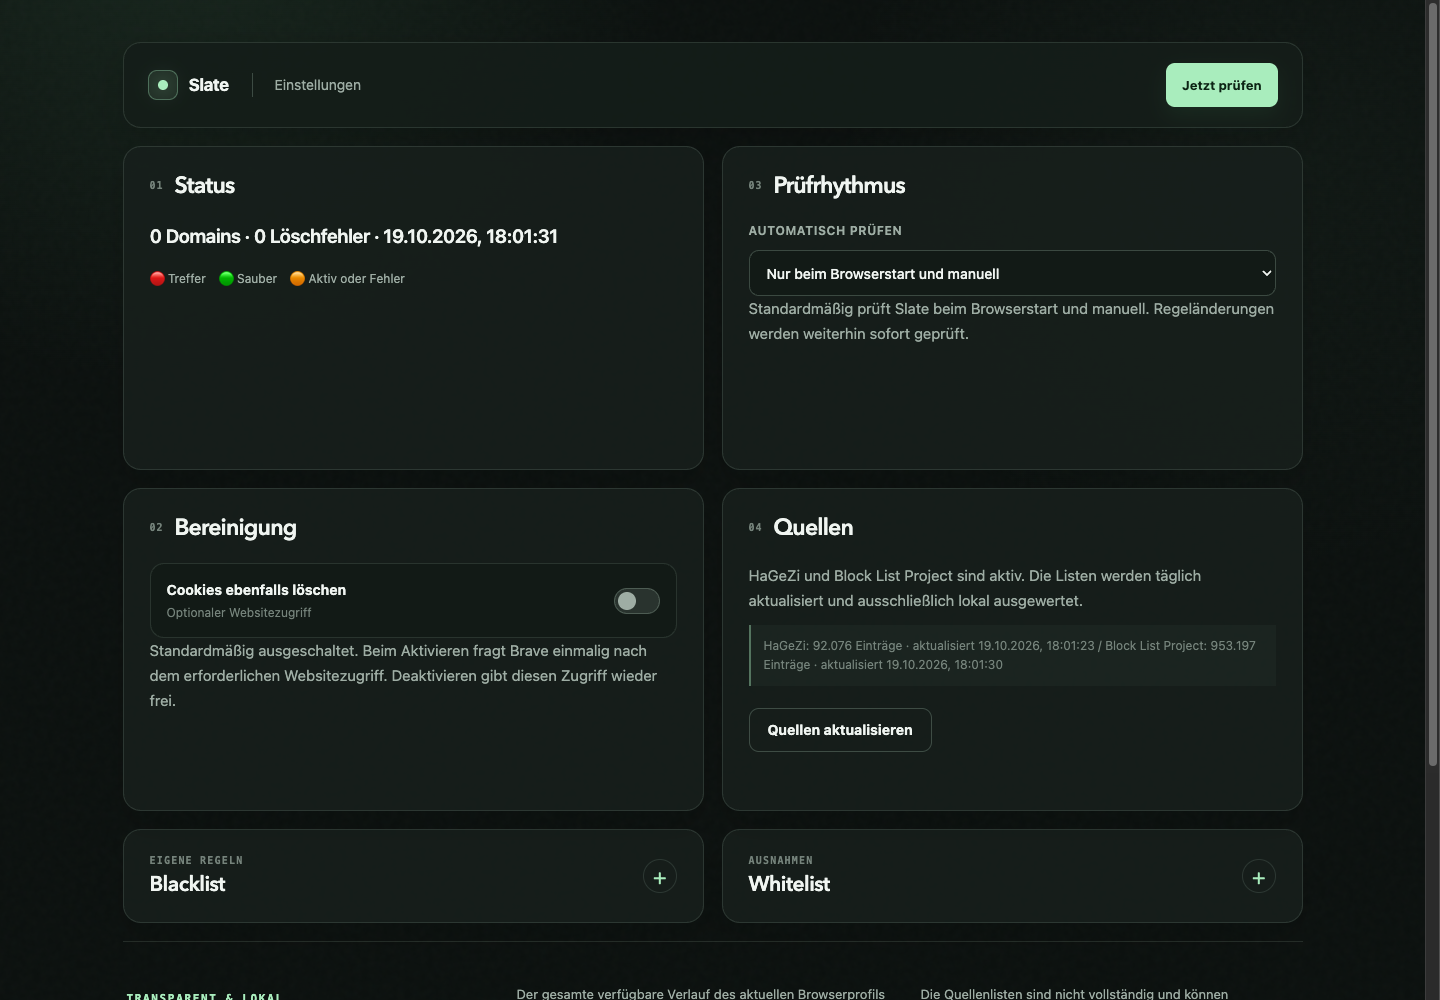
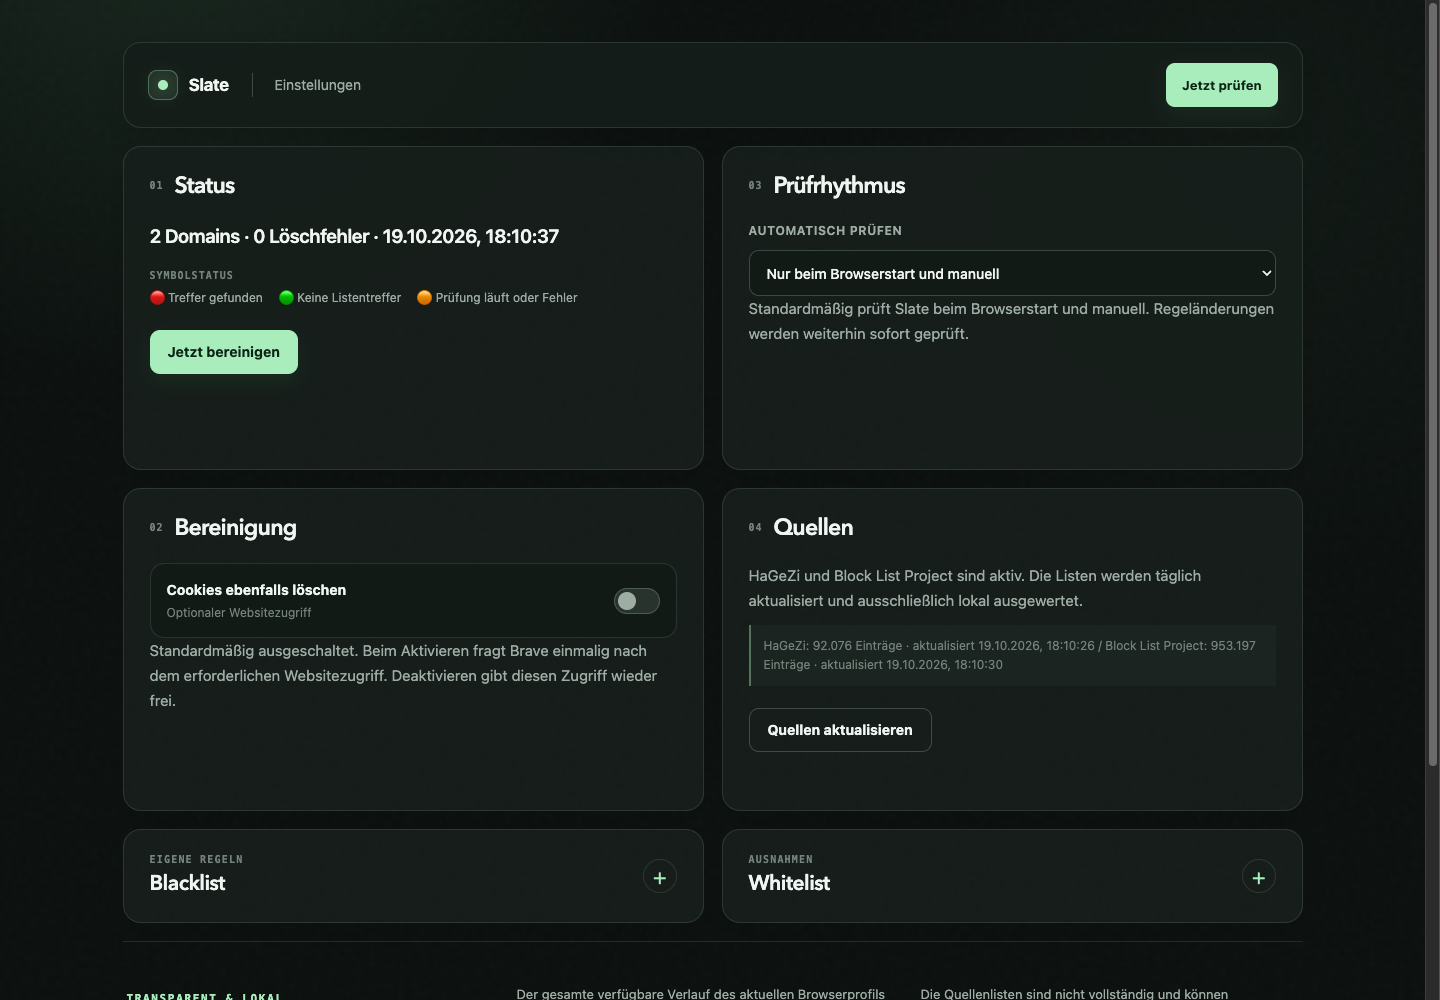
Add conditional cleanup action

Changed region(s): [[0.0938, 0.217, 0.4062, 0.372], [0.0938, 0.868, 0.1562, 0.899], [0.5312, 0.868, 0.5625, 0.899]]

diff --git a/options.js b/options.js
@@ -4,6 +4,7 @@ const $=id=>document.getElementById(id);
 async function status(){
  const {status:s,sourceMeta={}}=await chrome.storage.local.get(['status','sourceMeta']);
  $('status').textContent=s?.error||(s?`${s.domains??0} Domains · ${s.failed||0} Löschfehler · ${new Date(s.checkedAt).toLocaleString('de-DE')}`:'Noch keine Prüfung');
+ $('clean').hidden=!!s?.error||!(s?.domains>0);
  $('sourcesStatus').textContent=sources.map(src=>{const v=sourceMeta[src.id];return `${src.name}: ${(v?.count??src.bundledCount).toLocaleString('de-DE')} Einträge · ${v?.updatedAt?'aktualisiert '+new Date(v.updatedAt).toLocaleString('de-DE'):'mitgelieferter Stand 18.10.2026'}${v?.error?' · '+v.error:''}`}).join(' / ');
 }
 const data=await chrome.storage.local.get(['blacklist','whitelist','domains','deleteCookies','scanIntervalMinutes']);
@@ -39,5 +40,17 @@ for(const [key,button,message] of [['blacklist','saveBlacklist','blacklistMessag
  $(button).onclick=async()=>{try{const list=[...new Set($(key).value.split(/\n/).map(normalize).filter(Boolean))];await chrome.storage.local.set({[key]:list});$(message).textContent=`${list.length} Domains gespeichert.`;}catch(e){$(message).textContent=e.message}};
 }
 $('scan').onclick=async()=>{$('scan').disabled=true;try{$('status').textContent='Prüfung läuft …';await chrome.runtime.sendMessage({type:'scan'});await status()}finally{$('scan').disabled=false}};
+$('clean').onclick=async()=>{
+ $('clean').disabled=true;$('clean').hidden=true;$('status').textContent='Bereinigung läuft …';
+ try {
+  const result=await chrome.runtime.sendMessage({type:'clean'});
+  if(!result?.ok)throw Error('cleanup failed');
+  await status();
+ } catch {
+  $('status').textContent='Bereinigung fehlgeschlagen.';$('clean').hidden=false;
+ } finally {
+  $('clean').disabled=false;
+ }
+};
 $('refresh').onclick=async()=>{$('refresh').disabled=true;$('refreshMessage').textContent='Aktualisierung läuft …';try{const result=await chrome.runtime.sendMessage({type:'refresh'});await status();$('refreshMessage').textContent=result?.ok?'Aktualisierung abgeschlossen. Quellenstatus siehe oben.':'Aktualisierung fehlgeschlagen.'}catch{$('refreshMessage').textContent='Aktualisierung fehlgeschlagen.'}finally{$('refresh').disabled=false}};
 chrome.storage.onChanged.addListener((changes,area)=>{if(area==='local'&&(changes.status||changes.sourceMeta))void status()});await status();

diff --git a/gold.css b/gold.css
@@ -175,7 +175,24 @@ p { margin: 12px 0 0; color: var(--muted); }
   letter-spacing: -0.02em;
 }
 
-.legend { flex-wrap: wrap; gap: 7px 13px; font-size: 12px; }
+.status-key {
+  display: grid;
+  grid-template-columns: repeat(3, max-content);
+  gap: 7px 16px;
+  margin-top: 14px;
+  color: var(--muted);
+  font-size: 12px;
+}
+
+.status-key-label {
+  grid-column: 1 / -1;
+  color: var(--subtle);
+  font: 650 10px/1 ui-monospace, SFMono-Regular, Menlo, monospace;
+  letter-spacing: 0.1em;
+  text-transform: uppercase;
+}
+
+[hidden] { display: none !important; }
 
 button {
   min-height: 44px;
@@ -403,7 +420,8 @@ details[open] .summary-icon { transform: rotate(45deg); background: rgba(169, 23
 @media (max-width: 420px) {
   .header-action { min-height: 44px; padding: 0 11px; font-size: 12px; }
   .page-title { margin-left: 3px; padding-left: 12px; font-size: 12px; }
-  .legend { display: grid; }
+  .status-key { grid-template-columns: 1fr; }
+  .status-key-label { grid-column: auto; }
   summary { padding: 20px 21px; }
   .details-content { padding: 0 21px 21px; }
 }

diff --git a/options.html b/options.html
@@ -23,7 +23,13 @@
      <h2>Status</h2>
     </div>
     <p id="status" class="status-value" role="status">Wird geprüft …</p>
-    <p class="legend"><span>🔴 Treffer</span><span>🟢 Sauber</span><span>🟠 Aktiv oder Fehler</span></p>
+    <div class="status-key" aria-label="Bedeutung der Symbolfarben">
+     <span class="status-key-label">Symbolstatus</span>
+     <span>🔴 Treffer gefunden</span>
+     <span>🟢 Keine Listentreffer</span>
+     <span>🟠 Prüfung läuft oder Fehler</span>
+    </div>
+    <button id="clean" hidden>Jetzt bereinigen</button>
    </section>
 
    <section class="card enter-up">
